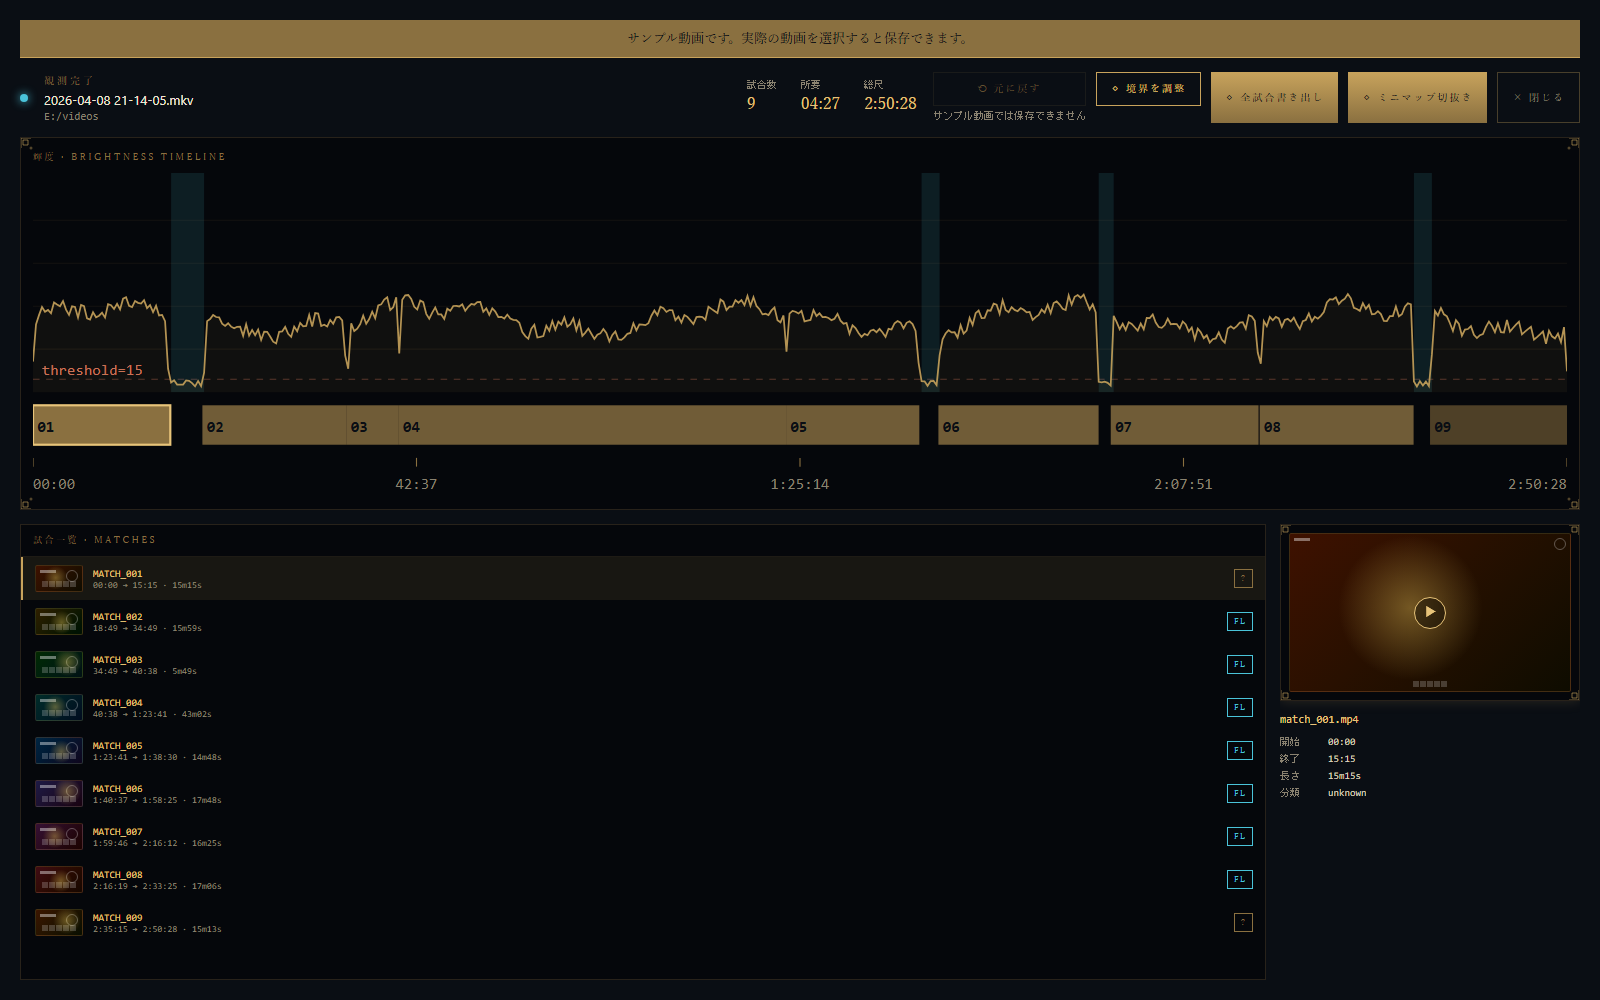
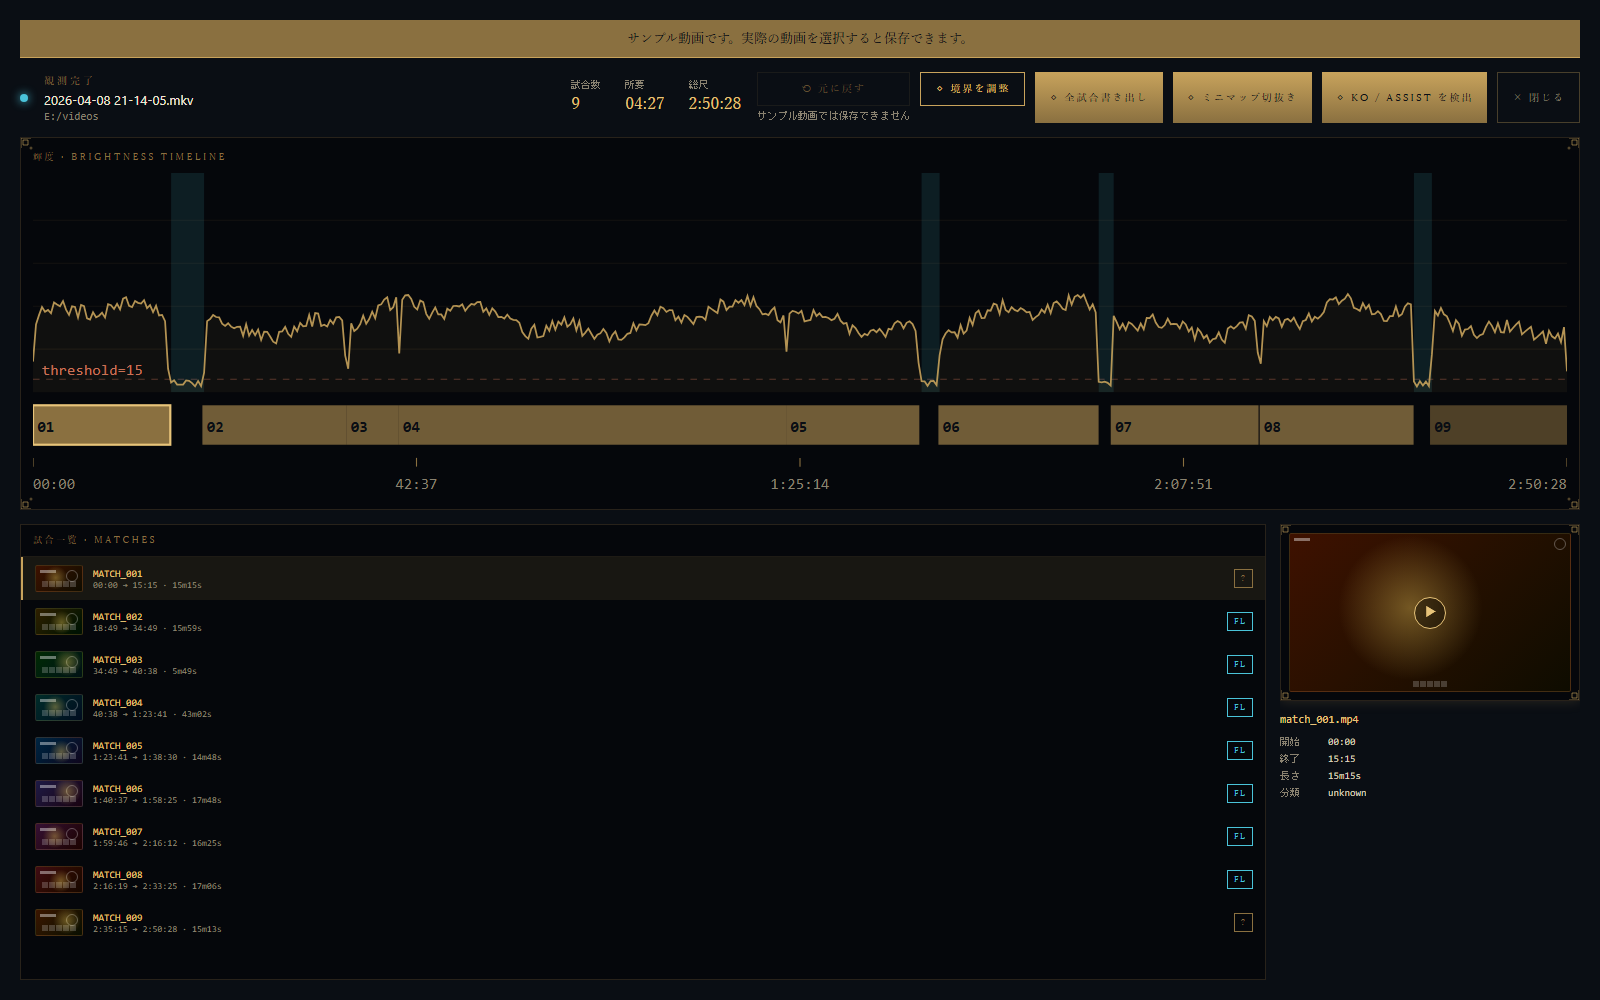
feat(gui): indicators 画面のスクショを README に追加 (Phase 3, Refs #1106)
- capture-readme-screens.mjs に indicators の SETUP を追加。結果一覧は
  metadataStore.filePath と indicatorsStore.metadataPath の一致で表示される
  ため、撮影時だけ filePath を実ファイル相当の値に差し替える
- 07-indicators.png を追加し、screenshot manifest に登録して sha256 を再生成
- 03-complete.png を撮り直し (Phase 2 で増えた [KO / ASSIST を検出] を反映)
- README のギャラリーを 7 画面に、docs/design/screens/README.md の参照を更新

Changed region(s): [[0.5, 0.062, 0.8438, 0.124], [0.875, 0.093, 0.9062, 0.124], [0.4375, 0.093, 0.4688, 0.124]]

diff --git a/docs/design/screens/README.md b/docs/design/screens/README.md
@@ -2,7 +2,7 @@
 
 GUI プロトタイプ 5 画面 (drop / detecting / complete / preview / export) のスクリーンショット。
 
-> **実装は 7 画面**である (`minimap` が [#893](https://github.com/Idios/kobutachan-allaganeye/issues/893)、`indicators` が [#1106](https://github.com/Idios/kobutachan-allaganeye/issues/1106) で追加)。本ディレクトリは **handoff bundle 由来のプロトタイプ**を保持する場所で、この 2 画面は bundle より後に設計されたためプロトタイプが存在せず 5 枚のままである。**実装された画面のスクリーンショットはリポジトリ直下の `image/` 配下** (`01-drop.png` 〜 `06-minimap.png`。indicators の画像は未撮影 = Phase 3 で追加) を参照。
+> **実装は 7 画面**である (`minimap` が [#893](https://github.com/Idios/kobutachan-allaganeye/issues/893)、`indicators` が [#1106](https://github.com/Idios/kobutachan-allaganeye/issues/1106) で追加)。本ディレクトリは **handoff bundle 由来のプロトタイプ**を保持する場所で、この 2 画面は bundle より後に設計されたためプロトタイプが存在せず 5 枚のままである。**実装された画面のスクリーンショットはリポジトリ直下の `image/` 配下** (`01-drop.png` 〜 `07-indicators.png`) を参照。
 
 ## ファイル一覧
 

diff --git a/README.md b/README.md
@@ -135,7 +135,7 @@ flowchart LR
 
 <br/>
 
-### GUI の 6 画面
+### GUI の 7 画面
 
 <table align="center">
 <tr>
@@ -190,6 +190,18 @@ flowchart LR
   <br/>
   <b>⑥ ミニマップ切抜き&nbsp;&nbsp;·&nbsp;&nbsp;M I N I M A P</b><br/>
   <sub>エリアマップ部分だけを切り出して H.264 で保存。領域は自動検出 or 映像上をドラッグして指定。<sub>v0.3.0</sub></sub>
+</td>
+</tr>
+<tr>
+<td width="50%" valign="top" align="center">
+  <a href="image/07-indicators.png">
+    <img src="image/07-indicators.png" alt="⑦ Indicators — KO / ASSIST 検出" width="100%"/>
+  </a>
+  <br/>
+  <b>⑦ KO / ASSIST&nbsp;&nbsp;·&nbsp;&nbsp;I N D I C A T O R S</b><br/>
+  <sub>試合ごとの KO / ASSIST を一覧し、行を選ぶとプレビューが該当時刻にシーク。探索領域の自動解決に失敗したときはバー矩形を指定して再実行。<sub>v0.4.0</sub></sub>
+</td>
+<td width="50%" valign="top" align="center">
 </td>
 </tr>
 </table>
